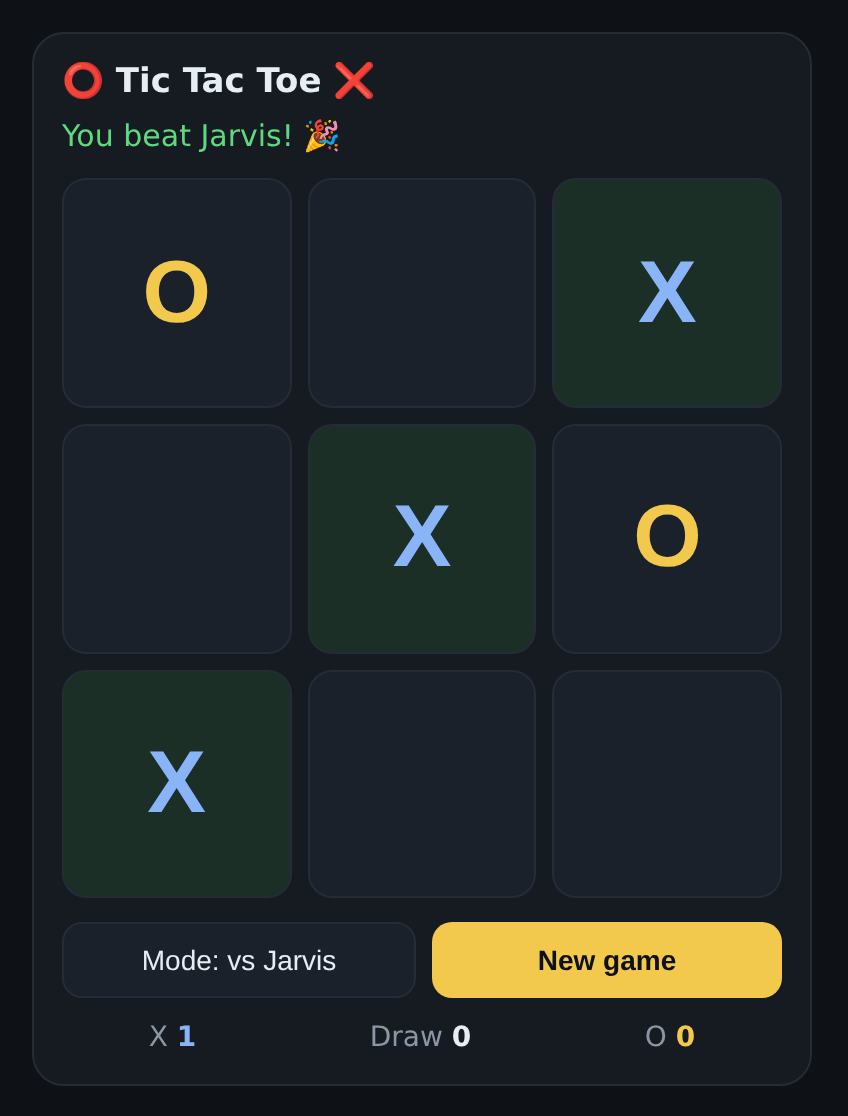
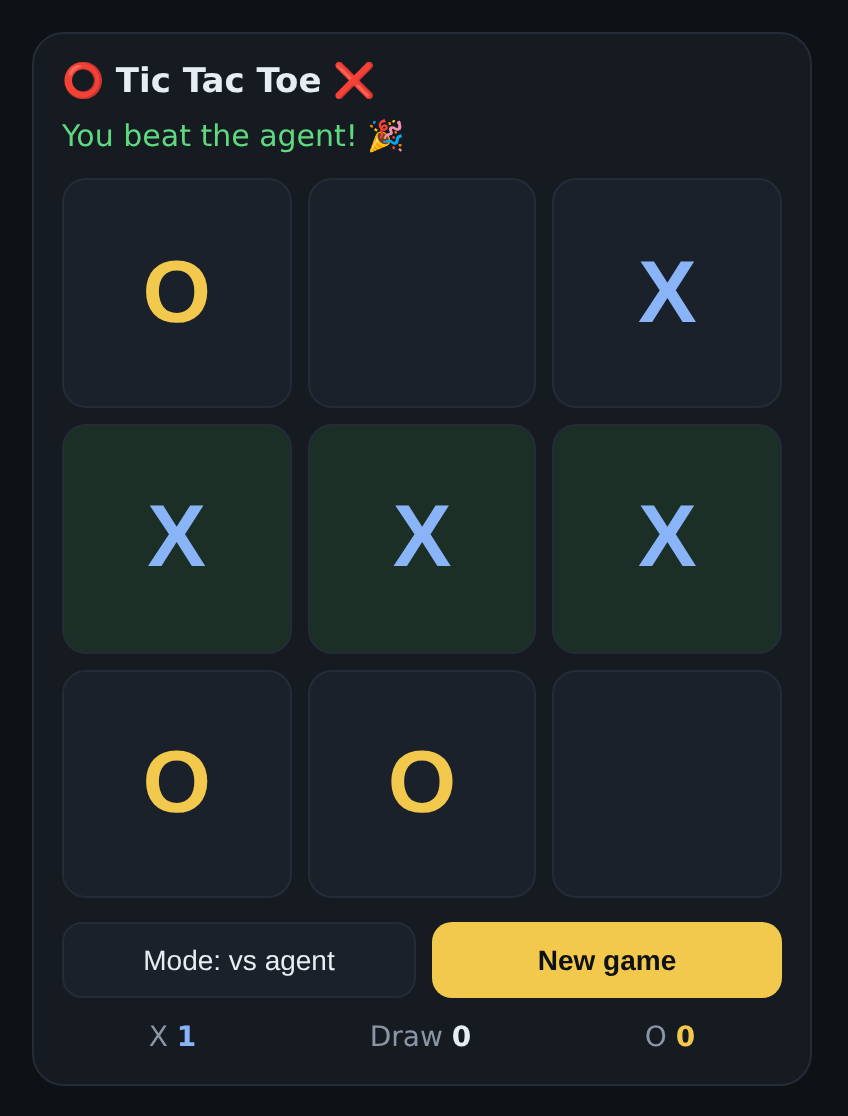
Post: dinosaur post names no assistant, says Android/Chrome, drops internal details
Re-rendered the tic-tac-toe card with the opponent called 'the agent'.

diff --git a/_posts/2026-10-02-a-dinosaur-in-a-chat-bubble.md b/_posts/2026-10-02-a-dinosaur-in-a-chat-bubble.md
@@ -3,47 +3,42 @@ comments: true
 author: krishan
 layout: post
 categories: agents
-title: My kid played a dinosaur game inside my assistant's reply. The hard part was keeping it alive.
-description: My personal assistant can now answer in HTML, drawn in a sandboxed frame inside the chat bubble. Getting a game to show up was easy. Keeping it safe, on-theme, and running when the next message arrived was the actual work.
+title: My kid played a dinosaur game inside my agent's reply. The hard part was keeping it alive.
+description: My personal agent can now answer with a small web page, drawn in a sandboxed frame inside the chat bubble. Getting a game to show up was easy. Keeping it safe, on-theme, and running when the next message arrived was the actual work.
 ---
 
-I talk to my personal assistant, lean-jarvis, almost entirely from my iPhone. Until recently its replies were markdown, which the server turned into cards and tappable chips.
+I talk to an evolving personal agent built on top of Claude Code, almost entirely from Chrome on my Android phone. Until recently its replies were plain formatted text.
 
-Now a reply can carry HTML. One evening it drew a dinosaur runner inside an ordinary chat reply. My kid played it. Of everything the assistant has done, that got the biggest reaction in our house.
+Now a reply can carry a small web page. One evening my agent drew a dinosaur runner inside an ordinary chat reply. My kid played it. Of everything the agent has done, that got the biggest reaction in our house.
 
-![The Dino Run game drawn inside a lean-jarvis reply: a white pixel dinosaur jumps green cacti on a dark card while the score climbs, then hits one and shows GAME OVER](/assets/dino-chat-bubble/dino-run.gif)
+![The Dino Run game drawn inside a chat reply: a white pixel dinosaur jumps green cacti on a dark card while the score climbs, then hits one and shows GAME OVER](/assets/dino-chat-bubble/dino-run.gif)
 _The real card, rendered headless. A small script presses space when a cactus gets close, then stops so you can see it lose._
 
-## One fence, one frame
+## One frame, and what it can't do
 
-Everything in a reply is escaped, so raw HTML shows up as text. There's exactly one exception: a code fence whose language is `html-card`. Its body goes into an iframe inside the bubble:
+Everything in a reply is escaped, so raw HTML shows up as text. There's exactly one exception: a block the agent explicitly marks as a web page. That goes into a sandboxed iframe inside the bubble.
 
-```html
-<iframe sandbox="allow-scripts allow-popups allow-popups-to-escape-sandbox"
-        srcdoc="..."></iframe>
-```
-
-What matters is the attribute that isn't there. The frame has `allow-scripts`, so a game can run, but not `allow-same-origin`. Its origin is opaque, so a script inside can't read the app's cookie, token, page or storage. It can draw on its own canvas and nothing else. A Content-Security-Policy in the frame also stops it from loading outside scripts, nesting frames or submitting forms.
+What matters is the permission that isn't there. The frame may run scripts, so a game can work, but it doesn't get the app's origin. A script inside can't read the app's page, storage or anything I'm signed in with. It can draw on its own canvas and nothing else. A content security policy also stops it from loading outside scripts, nesting frames or submitting forms.
 
 ## The theme holds because colours are variables
 
-The app has one palette, dark and light, and every frame gets the same set of CSS variables on `:root`: `--bg`, `--card`, `--ink`, `--accent`, and status colours `--ok`, `--warn`, `--bad`, `--info`. The assistant is told to use only those, never a hex value.
+The app has one palette, dark and light, and every frame is handed the same small set of named colours: background, card, text, accent, and a few status colours. The agent is told to use only those, never a raw colour value.
 
-So the model never picks a colour. It writes `var(--accent)` and the frame fills in whatever my theme says. That's why both games came out looking native without anyone asking. The cacti are `--ok`, the best score is `--accent`, and if I switch to light the next card follows.
+So the model never picks a colour. It asks for "the accent" and the frame fills in whatever my theme says. That's why both games came out looking native without anyone asking, and if I switch to light the next card follows.
 
-![A tic-tac-toe card in the same dark theme: X has won on the diagonal, the three winning squares are tinted green, and the status line reads "You beat Jarvis!"](/assets/dino-chat-bubble/tic-tac-toe-won.png)
+![A tic-tac-toe card in the same dark theme: X has won across the middle row, the three winning squares are tinted green, and the status line reads "You beat the agent!"](/assets/dino-chat-bubble/tic-tac-toe-won.png)
 _The tic-tac-toe card from the same evening. Its opponent is minimax with a 15% chance of a random move, which is the only reason this game was winnable._
 
 ## The wrinkle: the game reset whenever anyone spoke
 
-This bug showed up as soon as my kid started playing. The chat pane refreshed by replacing its whole contents with the server's latest markup. That's fine for text. For frames it was a disaster: rebuilding an iframe reloads it, so every new message restarted the dinosaur and cut off any audio that was playing.
+This bug showed up as soon as my kid started playing. The chat refreshed by replacing everything with the latest version. That's fine for text. For frames it was a disaster: rebuilding an iframe reloads it, so every new message restarted the dinosaur and cut off any audio that was playing.
 
-The fix made the repaint append-only. Each bubble is keyed by its own markup as first drawn. On refresh the pane keeps every bubble whose markup hasn't changed and builds only the new ones. It never moves a kept bubble either, because moving an iframe reloads it too.
+The fix made the refresh append-only. The chat keeps every bubble that hasn't changed and builds only the new ones. It never moves a kept bubble either, because moving an iframe reloads it too.
 
-The first version had its own bug. Two look-alike bubbles from the same minute could be matched to the wrong one as the oldest message scrolled out of the window. That threw everything below out of line and rebuilt it all, audio included. Matching each new bubble forward, in order, fixed that.
+The first version had its own bug. Two look-alike bubbles from the same minute could be matched to the wrong one as old messages scrolled away, which rebuilt everything below, audio included. Matching new bubbles forward, in order, fixed that.
 
 ## What I take from it
 
-Getting a game into a chat bubble took one `if`. The rest of the work was deciding what the bubble isn't allowed to do, and then not touching anything that hadn't changed.
+Getting a game into a chat bubble was the easy part. The real work was deciding what the bubble isn't allowed to do, and then not touching anything that hadn't changed.
 
 My kid doesn't care about any of that. What matters to him is that the dinosaur doesn't restart when I get a message.
